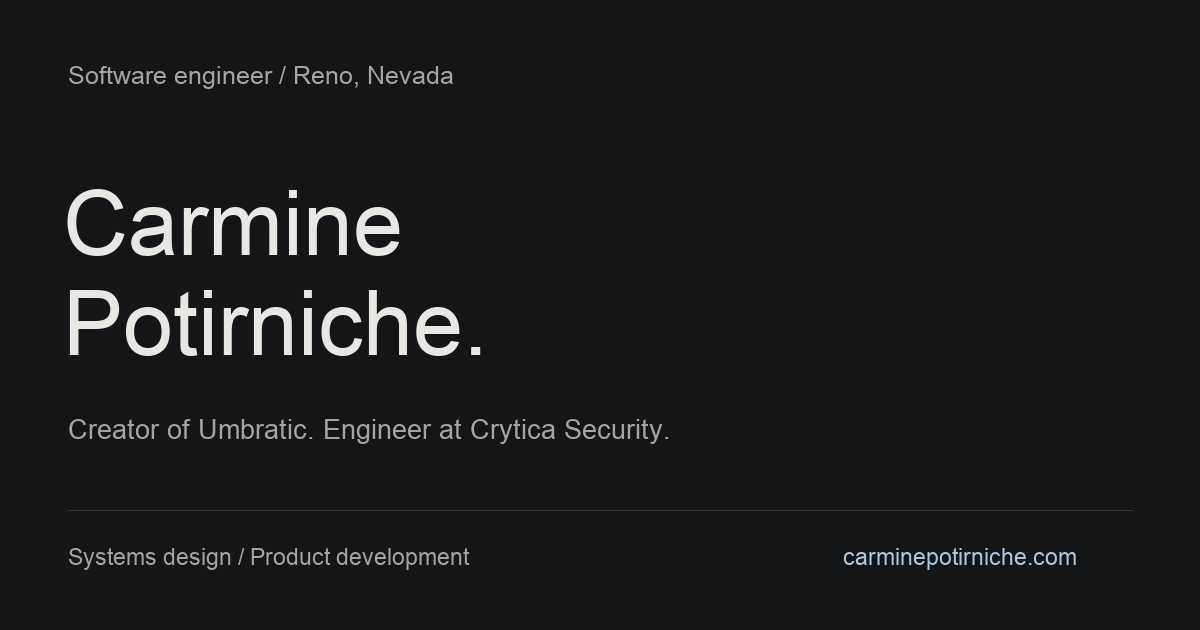
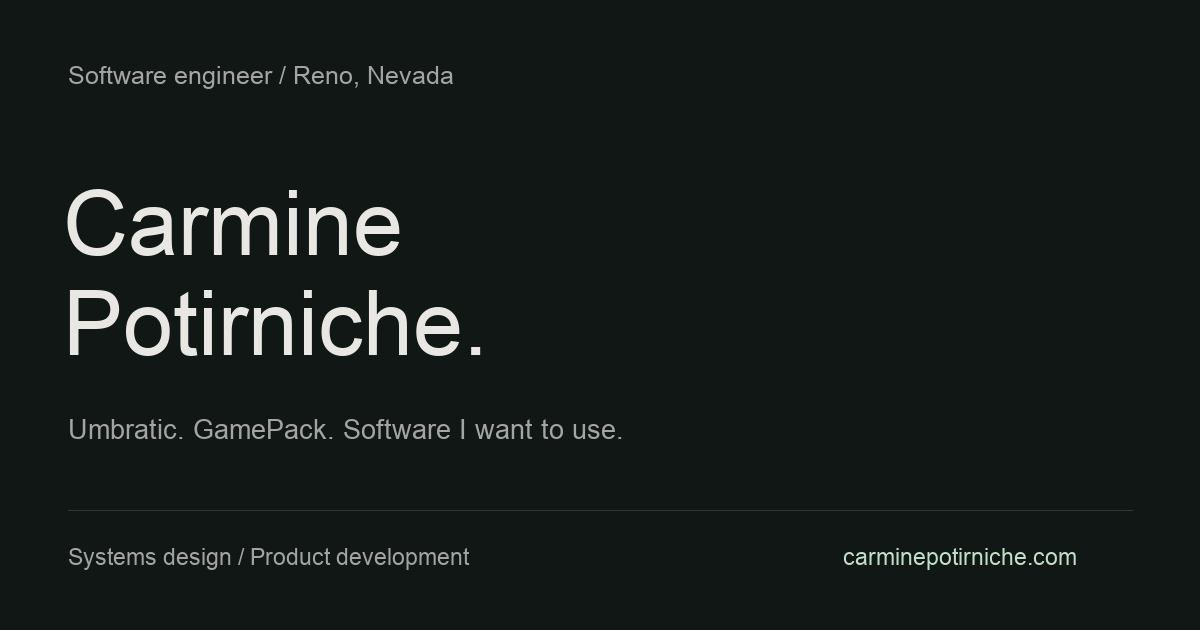
Focus portfolio on selected work and prepare Cloudflare Pages hosting

Changed region(s): [[0.0617, 0.6635, 0.555, 0.7238]]

diff --git a/index.html b/index.html
@@ -3,13 +3,13 @@
 <head>
 <meta charset="utf-8">
 <meta name="viewport" content="width=device-width, initial-scale=1">
-<meta name="description" content="Carmine Potirniche, software engineer at Crytica Security and creator of Umbratic. Full-stack development, private AI systems, and AI-agent orchestration with hands-on engineering ownership.">
+<meta name="description" content="Carmine Potirniche, software engineer at Crytica Security and creator of Umbratic. Creator of Umbratic and GamePack. Desktop interfaces, native runtimes, and security systems.">
 <meta name="theme-color" content="#111214">
 <title>Carmine Potirniche - Software Engineer</title>
 <link rel="canonical" href="https://carminepotirniche.com/">
 <meta property="og:type" content="website">
 <meta property="og:title" content="Carmine Potirniche - Software Engineer">
-<meta property="og:description" content="Software engineer at Crytica Security and creator of Umbratic, a private AI platform. Architecture, full-stack development, and AI-agent orchestration from requirements through validation.">
+<meta property="og:description" content="Software engineer at Crytica Security. Creator of Umbratic, the AI workspace I use, and GamePack, a native video review tool.">
 <meta property="og:url" content="https://carminepotirniche.com/">
 <meta property="og:image" content="https://carminepotirniche.com/assets/images/social-card.png">
 <meta name="twitter:card" content="summary_large_image">
@@ -17,50 +17,44 @@
 <link rel="icon" href="assets/favicon.svg?v=3" type="image/svg+xml" sizes="any">
 <link rel="preload" href="assets/fonts/geist-variable.woff2" as="font" type="font/woff2" crossorigin>
 <link rel="stylesheet" href="assets/site.css">
-<script src="assets/vendor/gsap.min.js" defer></script>
-<script src="assets/vendor/ScrollTrigger.min.js" defer></script>
 <script src="assets/site.js" defer></script>
 </head>
 <body>
 <a class="skip-link" href="#main">Skip to content</a>
 <header class="site-header wrap">
   <a class="identity" href="#main">Carmine Potirniche<span>Software Engineer</span></a>
-  <nav aria-label="Portfolio sections"><a href="#work">Selected work</a><a href="#agent-engineering">How I build</a><a href="#contact">Contact <span aria-hidden="true">↗</span></a></nav>
+  <nav aria-label="Portfolio sections"><a href="#work">Selected work</a><a href="#crytica">Experience</a><a href="#contact">Contact <span aria-hidden="true">↗</span></a></nav>
 </header>
 <main id="main">
   <section class="hero wrap" aria-labelledby="intro-title">
     <div class="hero-copy">
       <h1 id="intro-title">Carmine<br>Potirniche.</h1>
-      <p class="hero-description">Software engineer at Crytica Security and creator of Umbratic, a private AI platform. I build across the stack, from architecture to implementation and validation.</p>
+      <p class="hero-description">I make software I want to use. AI workspaces, native video tools, and the systems underneath them. Software engineer at Crytica Security.</p>
       <div class="hero-actions"><a class="button primary" href="#work">See my work <span aria-hidden="true">↘</span></a><a class="resume-link" href="resume/Carmine-Potirniche-Resume.pdf" download>Résumé <span aria-hidden="true">↓</span></a></div>
     </div>
     <figure class="hero-visual">
-      <a class="image-button hero-screen" href="assets/images/umbratic-workspace-dark.jpg" data-lightbox aria-label="Enlarge Umbratic workspace screenshot">
-        <img src="assets/images/umbratic-workspace-dark.jpg" alt="Umbratic's private AI workspace showing a request, tool activity, results, and files ready for review" width="1920" height="1080" fetchpriority="high"><span class="expand-image" aria-hidden="true">↗</span>
+      <a class="image-button hero-screen" href="assets/images/umbratic-workspace.jpg" data-lightbox aria-label="Enlarge Umbratic workspace screenshot">
+        <img src="assets/images/umbratic-workspace.jpg" alt="Umbratic's private AI workspace showing a request, tool activity, results, and files ready for review" width="1920" height="1080" fetchpriority="high"><span class="expand-image" aria-hidden="true">↗</span>
       </a>
       <figcaption><img src="assets/images/umbratic-mark.svg" alt="" width="22" height="22"><span>Umbratic<span>Desktop application · Rust runtime · Go gateway</span></span><a href="https://umbratic.ai" target="_blank" rel="noopener noreferrer" aria-label="Visit Umbratic">↗</a></figcaption>
     </figure>
   </section>
-  <div class="proof wrap" aria-label="Selected engineering results">
-    <dl><div><dt>16<span>ms</span></dt><dd>Workspace search <span>Umbratic, down from 15 seconds</span></dd></div><div><dt>85<span>%</span></dt><dd>Less synchronization time <span>Crytica, across 9+ ledgers</span></dd></div><div><dt>&lt;5<span>min</span></dt><dd>Deployment time <span>Crytica, down from over an hour</span></dd></div></dl>
-    <p>Results from measured internal workflows.</p>
-  </div>
   <section class="work wrap" id="work" aria-labelledby="work-title">
-    <div class="section-heading"><h2 id="work-title">Built from the ground up.</h2><p>Architecture, implementation, and responsibility for how it runs.</p></div>
+    <div class="section-heading"><h2 id="work-title">Two projects. Every layer.</h2><p>From the interface you touch to the runtime that makes it work.</p></div>
     <div class="project-explorer" aria-label="Selected projects">
       <article class="project is-active" id="umbratic" aria-labelledby="umbratic-title">
-        <button class="project-toggle" type="button" disabled aria-expanded="true" aria-controls="umbratic-body" data-project="umbratic"><span class="project-name" id="umbratic-title">Umbratic</span><span class="toggle-icon" aria-hidden="true">+</span></button>
-        <img class="project-cover" src="assets/images/umbratic-code-dark.jpg" alt="Umbratic's code review panel with a Go timeout change and added and removed lines" width="1920" height="1080" loading="lazy">
+        <h3 class="project-heading" id="umbratic-title">Umbratic</h3>
+        <img class="project-cover" src="assets/images/umbratic-review.jpg" alt="Umbratic’s current code review with compact feedback, layout, and editor controls" width="1920" height="1080" loading="lazy">
         <div class="project-body" id="umbratic-body">
           <p class="project-role">Creator &amp; Engineer <span>Project · 2025 - present</span></p>
-          <p class="project-lead">A complete private AI platform, from the desktop interface to the execution runtime and infrastructure.</p>
-          <dl class="project-facts"><div><dt>Architecture</dt><dd>Electron/React desktop, Rust runtime, authenticated Go gateway, and local or company-managed model serving.</dd></div><div><dt>Runtime design</dt><dd>Dependency-aware parallel tools, context compaction, resumable state, bounded retries, and permission boundaries.</dd></div><div><dt>Engineering</dt><dd>I define interfaces and acceptance criteria, direct scoped agents, review patches, and validate the integrated system.</dd></div></dl>
-          <details class="engineering-details"><summary>Engineering details <span aria-hidden="true">+</span></summary><p>On-demand skills and Qdrant retrieval with team access filters. Isolated Git worktrees, review diffs, checkpoints, repeated-call guards, cancellation, and redacted telemetry. Artifact tools create and validate documents, spreadsheets, presentations, and PDFs.</p><p>The native rewrite reduced cold-start time by 96% and idle memory by 88% in the measured workflows.</p></details>
-          <div class="project-links"><a href="https://umbratic.ai" target="_blank" rel="noopener noreferrer">Explore Umbratic <span aria-hidden="true">↗</span></a><a class="text-button" href="assets/images/umbratic-code-dark.jpg" data-lightbox data-image="assets/images/umbratic-code-dark.jpg" data-alt="Umbratic code review showing a Go request timeout change and two changed files" data-caption="Reviewable changes in Umbratic. Sample workspace.">View screenshot <span aria-hidden="true">↗</span></a></div>
+          <p class="project-lead">The AI workspace I build in, every day.</p>
+          <dl class="project-facts"><div><dt>Architecture</dt><dd>Electron and React desktop, Rust execution runtime, and a Go gateway. Local models, your own server, ChatGPT, or Claude.</dd></div><div><dt>Runtime design</dt><dd>Dependency-aware parallel tools, context compaction, resumable state, bounded retries, and permission boundaries.</dd></div><div><dt>Engineering</dt><dd>I define interfaces and acceptance criteria, direct scoped agents, review patches, and validate the integrated system.</dd></div></dl>
+          <details class="engineering-details"><summary>Engineering details <span aria-hidden="true">+</span></summary><p>Image references, project chats, live steering, queued prompts, and a compact review panel. File-level feedback and editor shortcuts keep the next step close. The runtime handles permissions, cancellation, context, and artifact tools.</p><p>Open source under the MIT License. I use it as a working environment and keep improving the details as I go.</p></details>
+          <div class="project-links"><a href="https://umbratic.ai" target="_blank" rel="noopener noreferrer">Explore Umbratic <span aria-hidden="true">↗</span></a><a class="text-button" href="assets/images/umbratic-review.jpg" data-lightbox data-image="assets/images/umbratic-review.jpg" data-alt="Umbratic code review with sample workspace changes" data-caption="Reviewable changes in Umbratic. Sample workspace.">View screenshot <span aria-hidden="true">↗</span></a></div>
         </div>
       </article>
       <article class="project" id="gamepack" aria-labelledby="gamepack-title">
-        <button class="project-toggle" type="button" disabled aria-expanded="true" aria-controls="gamepack-body" data-project="gamepack"><span class="project-name" id="gamepack-title">GamePack</span><span class="toggle-icon" aria-hidden="true">+</span></button>
+        <h3 class="project-heading" id="gamepack-title">GamePack</h3>
         <img class="project-cover gamepack-cover" src="assets/images/gamepack-review.png" alt="GamePack's native video review workspace with blue frame annotations, a comment and reply, and numbered timeline markers" width="2788" height="1664" loading="lazy">
         <div class="project-body" id="gamepack-body">
           <p class="project-role">Creator &amp; Lead Engineer <span>In development</span></p>
@@ -70,44 +64,18 @@
           <div class="project-links"><a href="https://github.com/Potirniche-Carmine/GamePack" target="_blank" rel="noopener noreferrer">Explore GamePack <span aria-hidden="true">↗</span></a><a class="text-button" href="assets/images/gamepack-review.png" data-lightbox data-image="assets/images/gamepack-review.png" data-alt="GamePack showing frame annotations, a threaded conversation, and review timeline markers over sample Earth footage" data-caption="GamePack's native macOS app, with sample footage and demo comments. In development.">View screenshot <span aria-hidden="true">↗</span></a></div>
         </div>
       </article>
-      <article class="project" id="updrafted" aria-labelledby="updrafted-title">
-        <button class="project-toggle" type="button" disabled aria-expanded="true" aria-controls="updrafted-body" data-project="updrafted"><span class="project-name" id="updrafted-title">UpDrafted</span><span class="toggle-icon" aria-hidden="true">+</span></button>
-        <img class="project-cover" src="assets/images/updrafted-messages.jpg" alt="UpDrafted's recruiting app showing messages between fictional athletes and coaches" width="1920" height="1080" loading="lazy">
-        <div class="project-body" id="updrafted-body">
-          <p class="project-role">Creator &amp; Lead Engineer <span>2025 - 2026</span></p>
-          <p class="project-lead">Athlete discovery, conversations, subscriptions, and a complete administration app.</p>
-          <dl class="project-facts"><div><dt>Architecture</dt><dd>Separate Next.js/TypeScript recruiting and administration apps over shared PostgreSQL/Drizzle data models.</dd></div><div><dt>Access &amp; billing</dt><dd>14 row-level security policies, encrypted stored messages, signed Stripe webhooks, and plan-based limits.</dd></div><div><dt>Engineering</dt><dd>I own the data model, user flows, and deployment pipeline, using coding agents for implementation and review.</dd></div></dl>
-          <details class="engineering-details"><summary>Engineering details <span aria-hidden="true">+</span></summary><p>Drizzle schemas and transaction-scoped user context. Cloudflare R2 file storage, plan-based usage limits, and separate athlete and administration apps. Changes reviewed against access rules, payment events, and complete user flows.</p></details>
-          <div class="project-links"><a class="text-button" href="assets/images/updrafted-messages.jpg" data-lightbox data-image="assets/images/updrafted-messages.jpg" data-alt="UpDrafted messages with fictional recruiting conversations" data-caption="The actual UpDrafted app, with fictional sample accounts.">View screenshot <span aria-hidden="true">↗</span></a><a class="text-button" href="assets/images/updrafted-connections.jpg" data-lightbox data-image="assets/images/updrafted-connections.jpg" data-alt="UpDrafted connections showing college program needs, coaches, and recruiters" data-caption="Program needs and contacts in UpDrafted. Fictional sample data.">Connections <span aria-hidden="true">↗</span></a></div>
-        </div>
-      </article>
-      <article class="project" id="infernal" aria-labelledby="infernal-title">
-        <button class="project-toggle" type="button" disabled aria-expanded="true" aria-controls="infernal-body" data-project="infernal"><span class="project-name" id="infernal-title">Infernal</span><span class="toggle-icon" aria-hidden="true">+</span></button>
-        <img class="project-cover" src="assets/images/infernal-maelstrom.jpg" alt="Maelstrom in Infernal's native shooting range, with character abilities and weapon interface" width="2560" height="1440" loading="lazy">
-        <div class="project-body" id="infernal-body">
-          <p class="project-role">Independent Developer <span>In development</span></p>
-          <p class="project-lead">Multiplayer combat, with networking and backend systems built together.</p>
-          <dl class="project-facts"><div><dt>Architecture</dt><dd>Unity/C# clients, FishNet networking, PlayFab matchmaking, and dedicated server allocation and lifecycle.</dd></div><div><dt>Runtime behavior</dt><dd>Server-controlled combat and team visibility, validated in the actual game build.</dd></div><div><dt>Engineering</dt><dd>Custom skills guide specialized agents. I coordinate file ownership, integrate patches, and inspect native gameplay.</dd></div></dl>
-          <details class="engineering-details"><summary>Engineering details <span aria-hidden="true">+</span></summary><p>Dedicated server allocation and lifecycle management. Shared-editor coordination and one owner per file keep parallel development integrated. Runtime checks and actual game inspection close the feedback loop.</p></details>
-          <div class="project-links"><a class="text-button" href="assets/images/infernal-maelstrom.jpg" data-lightbox data-image="assets/images/infernal-maelstrom.jpg" data-alt="Maelstrom in Infernal's shooting range" data-caption="Infernal, captured from the native game build. In development.">View gameplay <span aria-hidden="true">↗</span></a><a class="text-button" href="assets/images/infernal-range.jpg" data-lightbox data-image="assets/images/infernal-range.jpg" data-alt="Infernal gameplay in the native shooting range" data-caption="Infernal's shooting range in the native game build.">Shooting range <span aria-hidden="true">↗</span></a></div>
-        </div>
-      </article>
     </div>
   </section>
   <article class="crytica wrap" id="crytica" aria-labelledby="crytica-title">
     <div><h2 id="crytica-title">Crytica Security</h2><p class="project-role">Software Engineer <span>Nov. 2025 - present</span></p></div>
     <div><p class="crytica-lead">Security software, from requirements to installation.</p><p>I architected and developed a multi-tenant administration console in JavaScript/PHP over a C backend, plus a RHEL 9 bootstrap script and installer wizard that deploy the full product across 3–12 servers. I own requirements, delivery milestones, and release readiness in collaboration with leadership.</p><p class="crytica-detail">Across the project, I orchestrated hundreds of AI agents and subagents, reviewed and integrated their work, and validated the product with 100+ automated tests and black-box end-to-end tests of user input flows. Centralized authorization and parameterized SQL protect console access; subprocess isolation improves synchronization across 9+ ledgers.</p></div>
   </article>
-  <section class="engineering wrap" id="agent-engineering" aria-labelledby="engineering-title">
-    <div class="engineering-heading"><h2 id="engineering-title">Set the architecture.<br>Own the outcome.</h2><p>I use AI agents throughout planning, implementation, and testing. I define the architecture and acceptance criteria, review the code, integrate changes, and validate the complete system.</p></div>
-    <div class="engineering-loop"><p class="loop-statement"><span data-reveal>Understand the system.</span> <span data-reveal>Define the interfaces.</span> <span data-reveal>Coordinate execution.</span> <span data-reveal>Verify the behavior.</span></p><ol class="workflow"><li><h3>Architecture &amp; task design</h3><p>Define component boundaries, data flow, failure cases, and acceptance criteria before delegating implementation.</p></li><li><h3>Agent orchestration &amp; integration</h3><p>Equip specialists with custom skills and relevant context. Assign file ownership, isolate parallel work, and review each patch against the design.</p></li><li><h3>Validation &amp; automation</h3><p>Build, test, and inspect actual behavior. Diagnose failures, direct focused fixes, and encode repeatable checks in skills and CI/CD.</p></li></ol></div>
-  </section>
-  <footer class="contact wrap" id="contact" aria-labelledby="contact-title"><div><h2 id="contact-title">Start a conversation.</h2><a class="contact-email" href="mailto:potirnichecarmine@gmail.com">potirnichecarmine@gmail.com <span aria-hidden="true">↗</span></a></div><div class="contact-links"><a href="resume/Carmine-Potirniche-Resume.pdf" download>Résumé <span aria-hidden="true">↓</span></a><a href="https://github.com/Potirniche-Carmine" target="_blank" rel="noopener noreferrer">GitHub <span aria-hidden="true">↗</span></a><a href="https://linkedin.com/in/carmineap" target="_blank" rel="noopener noreferrer">LinkedIn <span aria-hidden="true">↗</span></a></div><div class="footer-note"><p>Carmine Potirniche <span>Reno, Nevada</span></p><p>B.S. Computer Science &amp; Engineering, UNR <span>Statistics minor, 2025</span></p></div></footer>
+  <footer class="contact wrap" id="contact" aria-labelledby="contact-title"><div><h2 id="contact-title">Let’s build something useful.</h2><a class="contact-email" href="mailto:potirnichecarmine@gmail.com">potirnichecarmine@gmail.com <span aria-hidden="true">↗</span></a></div><div class="contact-links"><a href="resume/Carmine-Potirniche-Resume.pdf" download>Résumé <span aria-hidden="true">↓</span></a><a href="https://github.com/Potirniche-Carmine" target="_blank" rel="noopener noreferrer">GitHub <span aria-hidden="true">↗</span></a><a href="https://linkedin.com/in/carmineap" target="_blank" rel="noopener noreferrer">LinkedIn <span aria-hidden="true">↗</span></a></div><div class="footer-note"><p>Carmine Potirniche <span>Reno, Nevada</span></p><p>B.S. Computer Science &amp; Engineering, UNR <span>Statistics minor, 2025</span></p></div></footer>
 </main>
 <dialog class="lightbox" aria-label="Project image viewer">
   <div class="lightbox-toolbar"><span class="image-count"></span><button type="button" class="close-image">Close <span aria-hidden="true">×</span></button></div>
-  <div class="lightbox-image"><img src="assets/images/umbratic-workspace-dark.jpg" alt="" width="1920" height="1080"></div>
-  <div class="lightbox-footer"><p></p><div><a class="original-image" href="assets/images/umbratic-workspace-dark.jpg" target="_blank" rel="noopener noreferrer">Original image <span aria-hidden="true">↗</span></a><button class="previous-image" type="button" aria-label="Previous image">←</button><button class="next-image" type="button" aria-label="Next image">→</button></div></div>
+  <div class="lightbox-image"><img src="assets/images/umbratic-workspace.jpg" alt="" width="1920" height="1080"></div>
+  <div class="lightbox-footer"><p></p><div><a class="original-image" href="assets/images/umbratic-workspace.jpg" target="_blank" rel="noopener noreferrer">Original image <span aria-hidden="true">↗</span></a><button class="previous-image" type="button" aria-label="Previous image">←</button><button class="next-image" type="button" aria-label="Next image">→</button></div></div>
 </dialog>
 </body>
 </html>

diff --git a/assets/site.css b/assets/site.css
@@ -53,3 +53,36 @@ button{border:0} ::selection{background:var(--accent);color:var(--button-ink)}
 
 /* Preserve the complete review workspace when GamePack is open. */
 .project.is-active .gamepack-cover,html:not(.enhanced) .gamepack-cover{height:auto;aspect-ratio:2788/1664;object-fit:contain;background:#08090b}
+
+/* Selected work, framed by a quiet glass material. */
+:root { color-scheme:dark; --paper:#101714; --surface:#1b2520; --ink:#eff4ef; --muted:#abb9af; --line:#35483d; --accent:#c2dec9; }
+body { background:radial-gradient(ellipse at 75% 5%,#304c3b88,transparent 45%),radial-gradient(ellipse at 0 48%,#213d2c77,transparent 35%),var(--paper); }
+html { scroll-padding-top:110px; }
+.site-header { position:sticky;top:16px;z-index:10;margin-top:16px;padding:12px 22px;border:1px solid #b2d0ba26;border-radius:18px;background:#1a2820bd;backdrop-filter:blur(26px) saturate(150%);-webkit-backdrop-filter:blur(26px) saturate(150%);box-shadow:inset 0 1px 0 #d6f1df24,0 12px 40px #04130b30; }
+.hero { grid-template-columns:1fr; padding:90px 0 40px;gap:54px; }
+.hero-copy { display:grid;grid-template-columns:1.35fr 1fr;gap:14px 80px;align-items:end; }
+.hero h1 { grid-row:span 2;font-size:clamp(4rem,9vw,8.5rem);font-weight:450;margin:0;letter-spacing:-.075em; }
+.hero-description { font-size:1.08rem;max-width:35ch; }
+.hero-actions { margin-top:10px; }
+.hero-actions .button { border-radius:12px;background:#dbe8df;color:#1b3023; }
+.hero-visual { padding:12px;border:1px solid #cfeddc30;border-radius:25px;background:#b3d0bb0c;box-shadow:inset 0 1px 0 #e7fff124,0 35px 90px #000b052f; }
+.hero-screen { border-radius:15px;border-color:#c5dfcc20; }
+.hero-visual figcaption { padding:0 12px; }
+.hero-visual figcaption>img { filter:invert(1); }
+.work { padding-top:80px; }
+.section-heading { display:flex;justify-content:space-between;gap:40px;align-items:end;margin-bottom:32px; }
+.section-heading h2 { font-size:clamp(2rem,4vw,3.4rem);letter-spacing:-.055em; }
+.section-heading>p { font-size:.94rem;max-width:30ch; }
+.project-explorer { display:grid;grid-template-columns:1fr;gap:40px;background:none;border:0;overflow:visible; }
+.project,.project.is-active { display:grid;grid-template-columns:1.2fr 1fr;gap:0 40px;background:#e8fff508;border:1px solid #d2eadb20;border-radius:24px;padding:32px;overflow:hidden; }
+.project-heading { grid-column:1/-1;margin:0 0 24px;font-size:2.2rem;font-weight:500;letter-spacing:-.05em; }
+.project-cover,.project.is-active .gamepack-cover { height:auto;aspect-ratio:16/10;object-fit:contain;align-self:start;border-radius:12px;background:#101512;border:1px solid #c8e6d321; }
+.project-body { padding:0; }
+.project-role { font-size:.78rem; }.project-lead{font-size:1.6rem;line-height:1.2;max-width:24ch}.project-facts{gap:18px}.project-facts>div{grid-template-columns:100px 1fr;font-size:.85rem}.engineering-details{font-size:.83rem}.project-links{font-size:.82rem}
+.crytica { margin-block:64px 40px;padding:38px;border:1px solid #cbe8d722;border-radius:24px;background:#ebfff60a;gap:50px; }.crytica p:not(.project-role):not(.crytica-lead){font-size:.95rem}.crytica .crytica-detail{font-size:.87rem!important}
+.contact { padding-block:60px 36px; }.contact h2{font-size:clamp(2.2rem,4vw,3.5rem)}.footer-note{font-size:.75rem}
+.lightbox { background:#15221b;color:#eff4ef; }
+@media(max-width:900px) { .wrap{width:calc(100% - 40px)}.hero{padding-top:60px}.hero-copy{grid-template-columns:1fr;gap:26px}.hero h1{grid-row:auto;font-size:clamp(4rem,12vw,7rem)}.hero-description{max-width:48ch}.hero-actions{margin-top:0}.section-heading{display:block}.section-heading>p{max-width:none}.project,.project.is-active{grid-template-columns:1fr;padding:22px;gap:0}.project-cover{margin-bottom:26px}.project-body{padding:0}.crytica{padding:26px}.site-header{padding-inline:16px}.identity span{display:none} }
+@media(max-width:600px) { .hero{gap:32px;padding-top:48px}.hero h1{font-size:clamp(3.5rem,12.5vw,5rem)}.hero-description{font-size:.95rem}.hero-visual{padding:6px;border-radius:18px}.hero-visual figcaption{padding:0 6px}.site-header nav{gap:14px;font-size:.7rem}.identity{font-size:.8rem}.work{padding-top:50px}.project-heading{font-size:1.8rem}.project-lead{font-size:1.4rem}.project-facts>div{grid-template-columns:1fr;gap:4px}.contact-email{font-size:.8rem;gap:10px}.crytica{margin-block:40px}.section-heading h2{font-size:2rem} }
+@media(prefers-reduced-transparency:reduce) { .site-header{background:#1a2820;backdrop-filter:none;-webkit-backdrop-filter:none}.project,.crytica{background:#1b2520} }
+@media(prefers-contrast:more) { :root{--muted:#d5e3d9;--line:#81988a}.site-header,.project,.crytica{border-color:#81988a;background:#14221a} }

diff --git a/assets/site.js b/assets/site.js
@@ -1,47 +1,7 @@
 const lightbox = document.querySelector('.lightbox');
 const triggers = [...document.querySelectorAll('[data-lightbox]')];
-const projects = [...document.querySelectorAll('.project')];
-const projectToggles = projects.map(project => project.querySelector('.project-toggle'));
 let current = 0;
 let imageTrigger;
-
-function activateProject(id) {
-  for (const project of projects) {
-    const active = project.id === id;
-    project.classList.toggle('is-active', active);
-    project.querySelector('.project-toggle').setAttribute('aria-expanded', String(active));
-    project.querySelector('.project-body').hidden = !active;
-  }
-  if (window.gsap && !matchMedia('(prefers-reduced-motion: reduce)').matches) {
-    const body = document.querySelector('.project.is-active .project-body');
-    if (body) gsap.fromTo(body, {y:6}, {y:0,duration:.28,ease:'power2.out',overwrite:true,clearProps:'transform'});
-  }
-  window.ScrollTrigger?.refresh();
-}
-
-if (projects.length) {
-  document.documentElement.classList.add('enhanced');
-  activateProject(projects.some(project => project.id === location.hash.slice(1)) ? location.hash.slice(1) : 'umbratic');
-  projectToggles.forEach((toggle, index) => {
-    toggle.disabled = false;
-    toggle.addEventListener('click', () => activateProject(toggle.closest('.project').classList.contains('is-active') ? null : toggle.dataset.project));
-    toggle.addEventListener('keydown', event => {
-      const offsets = { ArrowRight: 1, ArrowDown: 1, ArrowLeft: -1, ArrowUp: -1 };
-      let target;
-      if (event.key in offsets) target = (index + offsets[event.key] + projects.length) % projects.length;
-      if (event.key === 'Home') target = 0;
-      if (event.key === 'End') target = projects.length - 1;
-      if (target === undefined) return;
-      event.preventDefault();
-      projectToggles[target].focus();
-      activateProject(projects[target].id);
-    });
-  });
-  window.addEventListener('hashchange', () => {
-    const id = location.hash.slice(1);
-    if (projects.some(project => project.id === id)) activateProject(id);
-  });
-}
 
 function showImage(index) {
   current = (index + triggers.length) % triggers.length;
@@ -81,19 +41,3 @@ lightbox?.addEventListener('click', event => {
   if (event.clientX < rect.left || event.clientX > rect.right || event.clientY < rect.top || event.clientY > rect.bottom) lightbox.close();
 });
 lightbox?.addEventListener('close', () => imageTrigger?.focus({preventScroll:true}));
-
-// Every section remains readable if motion libraries fail or scripts are disabled.
-if (window.gsap && window.ScrollTrigger) {
-  gsap.registerPlugin(ScrollTrigger);
-  const motion = gsap.matchMedia();
-  motion.add('(prefers-reduced-motion: no-preference)', () => {
-    gsap.from('.hero-visual', {y:12, duration:.6, ease:'power3.out', clearProps:'transform'});
-    const reveals = document.querySelectorAll('[data-reveal]');
-    if (reveals.length) gsap.fromTo(reveals, {opacity:.7}, {opacity:1, stagger:.12, ease:'none', scrollTrigger:{trigger:'.engineering-loop', start:'top 88%', end:'top 45%', scrub:.4}});
-  });
-  motion.add('(min-width: 901px) and (prefers-reduced-motion: no-preference)', () => {
-    ScrollTrigger.create({trigger:'.engineering',start:'top 18%',end:'bottom 57%',pin:'.engineering-heading',pinSpacing:false,invalidateOnRefresh:true});
-  });
-  document.querySelectorAll('.engineering-details').forEach(details => details.addEventListener('toggle', () => ScrollTrigger.refresh()));
-  document.fonts.ready.then(() => ScrollTrigger.refresh());
-}

diff --git a/tools/create-social.py b/tools/create-social.py
@@ -11,13 +11,13 @@ font = next((folder / name for folder in font_dirs
 if font is None:
     raise RuntimeError('Arial or Liberation Sans is required to render the social card.')
 regular = lambda size: ImageFont.truetype(str(font), size)
-image = Image.new('RGB',(1200,630),'#141516')
+image = Image.new('RGB',(1200,630),'#101714')
 draw = ImageDraw.Draw(image)
 draw.text((68,61),'Software engineer / Reno, Nevada',font=regular(25),fill='#a3a4a3')
 draw.text((63,173),'Carmine',font=regular(90),fill='#e8e7e3')
 draw.text((63,273),'Potirniche.',font=regular(90),fill='#e8e7e3')
-draw.text((68,414),'Creator of Umbratic. Engineer at Crytica Security.',font=regular(27),fill='#a3a4a3')
+draw.text((68,414),'Umbratic. GamePack. Software I want to use.',font=regular(27),fill='#a3a4a3')
 draw.line((68,510,1132,510),fill='#343638',width=1)
 draw.text((68,544),'Systems design / Product development',font=regular(23),fill='#a3a4a3')
-draw.text((843,544),'carminepotirniche.com',font=regular(23),fill='#afc7df')
+draw.text((843,544),'carminepotirniche.com',font=regular(23),fill='#c2dec9')
 image.save(root/'assets/images/social-card.png', optimize=True)

diff --git a/README.md b/README.md
@@ -4,23 +4,17 @@ A single-page portfolio in HTML, CSS, and vanilla JavaScript. Geist typography a
 
 ## Run and deploy
 
-```sh
-npm run dev
-npm run check
-npm test
-```
+Run `npm run dev` to preview on localhost:4173. Verify with `npm run check`, `npm test`, and browser checks at desktop and phone widths. `npm run build` stages only public files into `dist/`.
 
-Open http://127.0.0.1:4173. Node 20 or later is sufficient; the browser assets are committed, so package installation is not needed to preview or build.
-
-`npm run build` copies the public site to `dist/`. For the existing Coolify Nixpacks application, use `npm run build`, `npm start`, and internal port `3000`. Keep **Is it a static site?** disabled. Production serves only `dist/` and listens on `0.0.0.0:3000`. `PORT` and `HOST` can override these values. Development defaults to `127.0.0.1:4173`.
+The production target is Cloudflare Pages project `carmine-portfolio`, with `carminepotirniche.com` and `www.carminepotirniche.com` as custom domains. The GitHub integration builds and deploys `main` automatically. Deploy `dist/` with Wrangler for a manual release. The www address redirects to the apex through `_redirects`. The site needs no Node server or VPS in production. The local Node server remains for preview and verification.
 
 ## Content and design
 
-The first screen uses Carmine's name, current roles, an unaltered Umbratic workspace capture, and three historical measured outcomes. It avoids positioning slogans and decorative image framing. Architecture, implementation, integration, and runtime validation lead the project copy. Agent engineering appears as a concrete development practice: specialized tasks, custom skills, patch review, and automated feedback loops. A compact project explorer covers Umbratic, GamePack, UpDrafted, and Infernal. The four-column desktop explorer stacks below 1200px to keep project descriptions readable. Crytica's console and installer work, the engineering workflow, education, and contact follow. There are no eyebrow labels above headings or project names.
+Two substantial personal projects lead the portfolio, Umbratic and GamePack, followed by Crytica Security experience. Each project has visible imagery, a concise architecture explanation, optional engineering details, and links to source or the project website. The full résumé remains available separately.
 
-The personal typographic hero, Geist type, restrained controls, and project accordion draw on the requested apple-design, gpt-taste, and design-taste-frontend skills. The initial design seed was 126. Short image entry, scroll-linked text emphasis, and a brief desktop heading pin use GSAP and ScrollTrigger. No long pinned scene or marquee delays the recruiter scan. Light/dark system preferences, reduced motion, reduced transparency, increased contrast, keyboard focus, and mobile layouts are supported.
+The design uses self-hosted Geist, large personal typography, a muted green glass navigation surface, soft refracted edges, and real product captures. Native scrolling, focus states, reduced motion, reduced transparency, and increased contrast are supported. No runtime third-party requests, analytics, or animation dependencies are required.
 
-Project buttons support arrow keys, Home, and End. Engineering details expand on demand. Screenshots open in a viewer with Previous/Next, Left/Right keys, Escape, a Close button, an original-image link, and return of focus. Without JavaScript, all project text remains visible and image links open the original files. Screenshots depict sample content, identified in the viewer captions.
+Screenshots open in a keyboard-accessible viewer with arrow navigation, Escape, and focus return. Without JavaScript they open as ordinary image links. Umbratic captures were refreshed from the actual development renderer on November 8, 2026 with clearly identified sample content. GamePack retains its authentic native app capture.
 
 ## Resume
 
@@ -36,7 +30,7 @@ Dates, degree details, and historical performance figures came from the supplied
 
 ## Assets
 
-- Umbratic screenshots show the real desktop renderer in dark mode, captured September 21, 2026, with local sample content. Sample conversation test results are demonstration content.
+- The active Umbratic screenshots are current November 8, 2026 renderer captures with sample content. Earlier captures remain unreferenced historical assets.
 - GamePack's screenshot is the unaltered native macOS capture from its public README (`docs/assets/review.png`, added October 12, 2026). It shows sample Earth footage, frame drawings, demo comments and replies, and the review timeline. The project is in active development. Its portfolio description is grounded in the current review guide, development guide, native hosts, and Rust storage implementation.
 - UpDrafted screenshots show real components and styles in an isolated harness with fictional recruiting accounts. API, authentication, and subscription responses are fixtures; no live messages or database writes were used.
 - Infernal screenshots are native captures from `Infernal-Windows-v0.1.0-2026-09-21`, showing Maelstrom in the shooting range.
